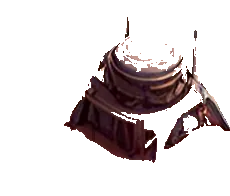
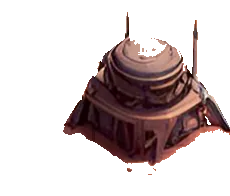
Stop the trim eating the buildings it was meant to clean
The owner saw it on the iPad before I did: "Cryo looks too bleached". It was
worse than bleached - the trim had chewed holes in the Cryo Tank's tan upper
body and the Nuclear Pod's dome. An audit found the same bite taken out of
nuclearPod (33% of the silhouette), transceiver (32%), separator (25%) and
amplifier (20%).

Cause: "ground" was defined as anything saturated and warm, which is also what
these buildings are painted. Both the trim and the gate now measure the ground
colour from each tile's own background - the pixels the model already called
background - and only colours close to that sample count. Trims dropped from
20-45% of the silhouette to 1-13%, with 1-8% ground left.

Added the gate that would have caught it: a trim removing more than a quarter of
the model's silhouette is eating the building, and refuses to write. Checking
the output was clean was not enough; nothing was checking what the cleaning cost.

diff --git a/games/recycled/tools/make_cutouts.py b/games/recycled/tools/make_cutouts.py
@@ -11,6 +11,8 @@ did. Output is lossless WebP, which halves the file against PNG for a game downl
 Needs Pillow and an OpenAI key in ~/.openai-token (see the Art section of the root CLAUDE.md).
 The API call goes through scripts/art.mjs, which is the only client.
 """
+from __future__ import annotations
+
 import subprocess
 import sys
 import tempfile
@@ -41,6 +43,10 @@ PROMPT = (
 # A cut-out that keeps this much of the printed sand has kept the ground or the cast shadow.
 # The kit's hand-traced reference scores about 8 percent.
 MAX_SAND_PCT = 12
+# How far from this tile's own ground colour a pixel may be and still count as ground.
+GROUND_TOLERANCE = 38
+# A trim that removes this much of the model's silhouette is eating the building, not the ground.
+MAX_EATEN_PCT = 25
 
 # The gates are heuristics: they flag an asset for a human look, and two buildings were looked at
 # and judged fine. Each exception says why, so it can be re-argued rather than inherited blindly.
@@ -69,31 +75,42 @@ def pad_square(tile: Image.Image) -> tuple[Image.Image, int, int]:
     return canvas, ox, oy
 
 
-def sand_fraction(rgba: np.ndarray) -> float:
-    """How much of what we kept is the printed ground, by `extract_art.py`'s own test: sand is
-    saturated orange, buildings are greys, whites and dark metal."""
-    rgb, a = rgba[:, :, :3].astype(float), rgba[:, :, 3]
-    vis = a > 127
-    mx, mn = rgb.max(axis=2), rgb.min(axis=2)
-    sat = np.divide(mx - mn, np.where(mx == 0, 1, mx))
-    sand = (sat >= 0.28) & (mx >= 90) & (rgb[:, :, 0] > rgb[:, :, 2]) & vis
-    return sand.sum() / max(vis.sum(), 1)
+def ground_colour(tile: np.ndarray, kept: np.ndarray) -> np.ndarray | None:
+    """This tile's printed ground, sampled from what the model called background."""
+    outside = ~kept
+    if outside.sum() < 50:
+        return None
+    return np.median(tile[outside].reshape(-1, 3), axis=0)
 
 
-def trim_ground(tile: np.ndarray, kept: np.ndarray) -> np.ndarray:
+def ground_fraction(tile: np.ndarray, kept: np.ndarray, ground: np.ndarray | None) -> float:
+    """How much of what we kept is that same printed ground.
+
+    Measured against this tile's own ground rather than "anything saturated and warm", which
+    counted the Rover's tan bodywork and the Cryo Tank's panels as sand.
+    """
+    if ground is None or not kept.any():
+        return 0.0
+    near = np.abs(tile.astype(float) - ground).max(axis=2) <= GROUND_TOLERANCE
+    return (near & kept).sum() / kept.sum()
+
+
+def trim_ground(tile: np.ndarray, kept: np.ndarray, ground: np.ndarray | None) -> np.ndarray:
     """Drop printed ground the model left inside its silhouette.
 
-    The model gives a rough region; the publisher's own pixels decide the edge. Sand reachable from
-    outside the silhouette is ground - the cast shadow pool, the orange fringe round the base - and
-    goes. Sand enclosed by structure belongs to the building and stays, which is why this floods
-    inwards rather than subtracting every orange pixel.
-    """
-    rgb = tile.astype(float)
-    mx, mn = rgb.max(axis=2), rgb.min(axis=2)
-    sat = np.divide(mx - mn, np.where(mx == 0, 1, mx))
-    sand = (sat >= 0.28) & (mx >= 90) & (rgb[:, :, 0] > rgb[:, :, 2])
+    The ground colour is **measured from this tile**, not guessed: pixels the model already called
+    background are the sample. Only colours close to that sample are passable, so the flood eats
+    the shadow pool and the orange fringe but not the building's own warm paint - which an
+    "anything saturated and warm" test did, hollowing out the Cryo Tank and the Nuclear Pod.
 
-    passable = (~kept | sand).astype(np.uint8)
+    Flooding from the border, rather than subtracting every matching pixel, keeps ground-coloured
+    areas that are enclosed by structure.
+    """
+    if ground is None:
+        return kept
+    near = np.abs(tile.astype(float) - ground).max(axis=2) <= GROUND_TOLERANCE
+
+    passable = (~kept | near).astype(np.uint8)
     h, w = passable.shape
     flood = np.zeros((h + 2, w + 2), np.uint8)
     border = [(x, y) for x in range(w) for y in (0, h - 1)] + [(x, y) for y in range(h) for x in (0, w - 1)]
@@ -125,9 +142,10 @@ def cut(kind: str, work: Path) -> str:
     alpha = Image.open(matte).convert('RGBA').split()[3]
     alpha = alpha.resize((side, side), Image.LANCZOS).crop((ox, oy, ox + tile.width, oy + tile.height))
     rule = OVERRIDES.get(kind, {})
-    kept = np.array(alpha) > 127
-    if rule.get('trim', True):
-        kept = trim_ground(np.array(tile), kept)
+    raw = np.array(alpha) > 127
+    ground = ground_colour(np.array(tile), raw)
+    kept = trim_ground(np.array(tile), raw, ground) if rule.get('trim', True) else raw
+    eaten = (raw.sum() - kept.sum()) / max(raw.sum(), 1) * 100
     coverage = kept.mean() * 100
 
     out = tile.copy()
@@ -138,14 +156,17 @@ def cut(kind: str, work: Path) -> str:
     if not rule.get('min_coverage', 15) <= coverage <= 85:
         return f'{kind}: SUSPECT - keeps {coverage:.0f}% of the tile; not written, look at the matte'
 
-    sand = sand_fraction(np.array(out)) * 100
+    if eaten > rule.get('max_eaten', MAX_EATEN_PCT):
+        return f'{kind}: TRIM ATE IT - removed {eaten:.0f}% of the silhouette; not written'
+
+    sand = ground_fraction(np.array(tile), kept, ground) * 100
     if sand > rule.get('max_sand', MAX_SAND_PCT):
         return f'{kind}: GROUND LEFT - {sand:.0f}% of what it keeps is printed sand; not written'
 
     out.save(OUT / f'{kind}.webp', 'WEBP', lossless=True, quality=100, method=6)
     size = (OUT / f'{kind}.webp').stat().st_size // 1024
     note = f" [exception: {rule['reason']}]" if rule else ''
-    return f'{kind}: kept {coverage:.0f}%, sand {sand:.0f}%, 0 pixels altered, {size} KB{note}'
+    return f'{kind}: kept {coverage:.0f}%, sand {sand:.0f}%, trim took {eaten:.0f}%, {size} KB{note}'
 
 
 def main() -> None:
